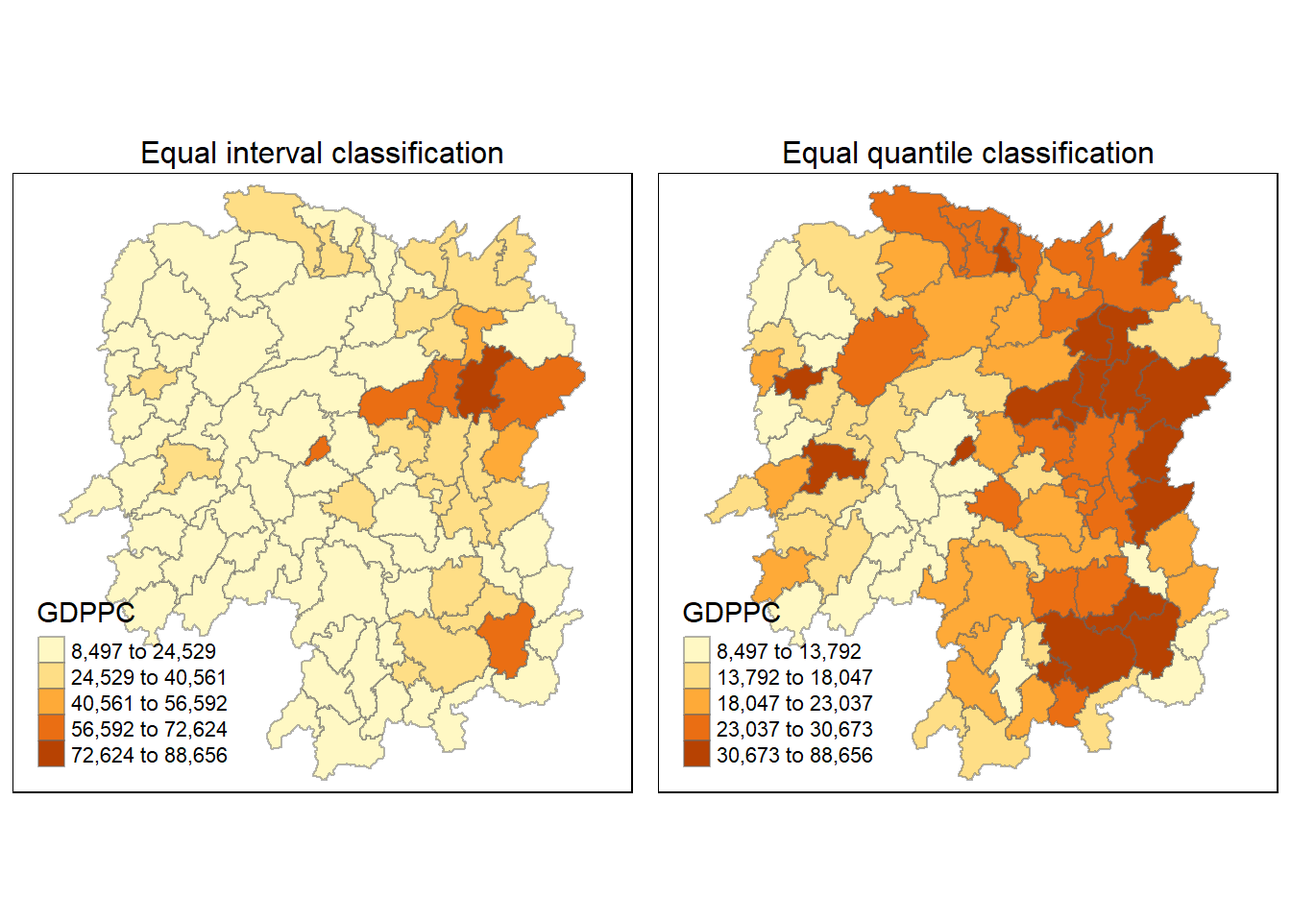
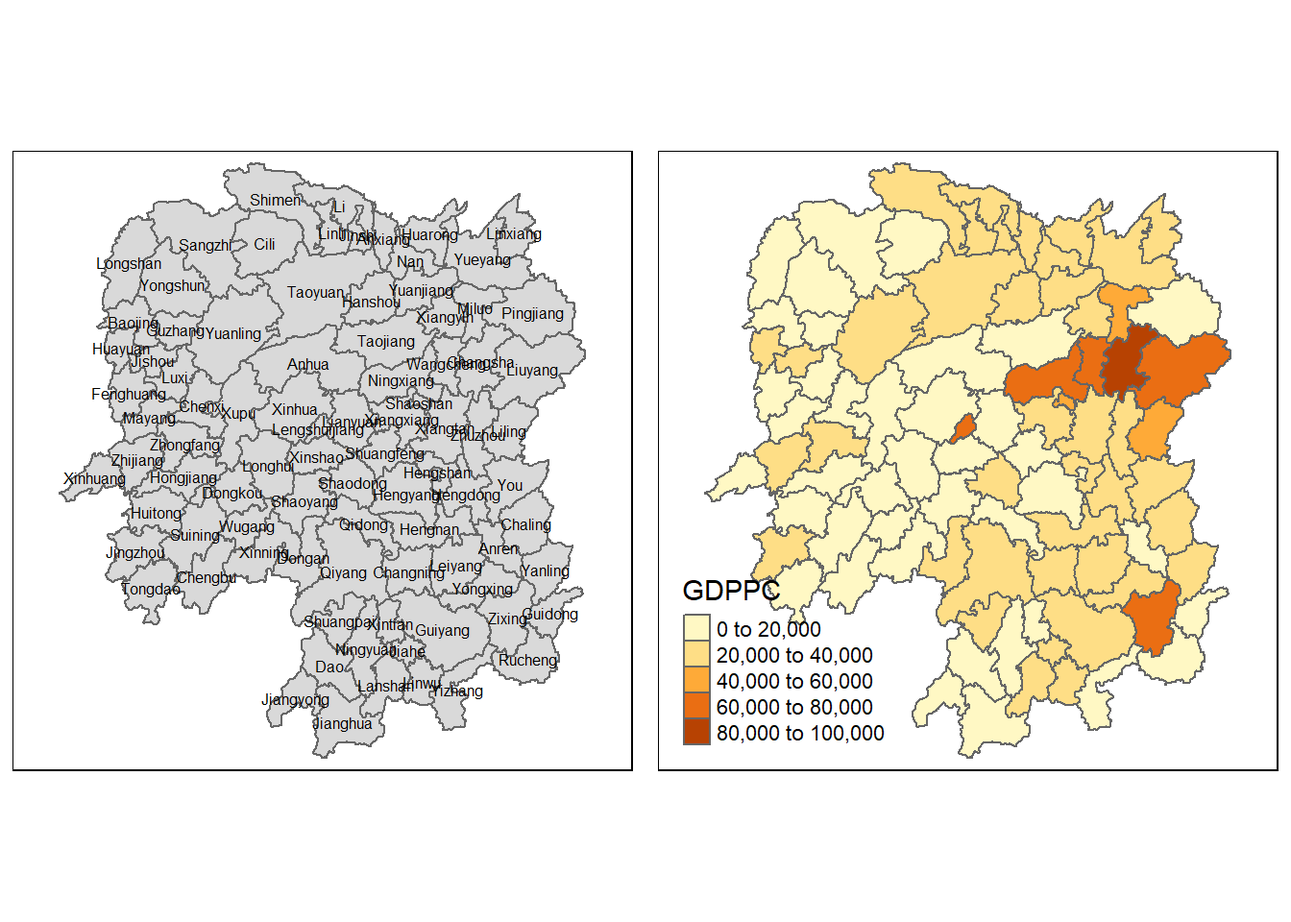
Commit 3rd edition of Hand-on Exercise 2 and 2nd edition of In-Class Exercise 1

diff --git a/_site/In-class_Ex/In-class_Ex1/In-class_Ex1.html b/_site/In-class_Ex/In-class_Ex1/In-class_Ex1.html
@@ -156,8 +156,8 @@ code span.wa { color: #60a0b0; font-weight: bold; font-style: italic; } /* Warni
     </ul>
   </li>
   <li class="nav-item dropdown ">
-    <a class="nav-link dropdown-toggle" href="#" id="nav-menu-in-class-exercise-1" role="button" data-bs-toggle="dropdown" aria-expanded="false">In-class Exercise 1</a>
-    <ul class="dropdown-menu" aria-labelledby="nav-menu-in-class-exercise-1">    
+    <a class="nav-link dropdown-toggle" href="#" id="nav-menu-in-class-exercises" role="button" data-bs-toggle="dropdown" aria-expanded="false">In-class Exercises</a>
+    <ul class="dropdown-menu" aria-labelledby="nav-menu-in-class-exercises">    
         <li>
     <a class="dropdown-item" href="../../In-class_Ex/In-class_Ex1/In-class_Ex1.html">
  <span class="dropdown-text">In-class Exercise 1</span></a>
@@ -206,9 +206,10 @@ code span.wa { color: #60a0b0; font-weight: bold; font-style: italic; } /* Warni
   </ul></li>
   <li><a href="#joining-hunan-data" id="toc-joining-hunan-data" class="nav-link" data-scroll-target="#joining-hunan-data">Joining Hunan Data</a></li>
   <li><a href="#visualising-regional-development-indicator" id="toc-visualising-regional-development-indicator" class="nav-link" data-scroll-target="#visualising-regional-development-indicator">Visualising Regional Development Indicator</a></li>
-  <li><a href="#global-spatial-autocorrelation" id="toc-global-spatial-autocorrelation" class="nav-link" data-scroll-target="#global-spatial-autocorrelation">Global Spatial Autocorrelation</a>
+  <li><a href="#computing-contiguity-spatial-weights" id="toc-computing-contiguity-spatial-weights" class="nav-link" data-scroll-target="#computing-contiguity-spatial-weights">Computing Contiguity Spatial Weights</a>
   <ul class="collapse">
-  <li><a href="#contiguity-spatial-weights" id="toc-contiguity-spatial-weights" class="nav-link" data-scroll-target="#contiguity-spatial-weights">Contiguity Spatial Weights</a></li>
+  <li><a href="#computing-queens-criteria-contiguity-based-neighbours" id="toc-computing-queens-criteria-contiguity-based-neighbours" class="nav-link" data-scroll-target="#computing-queens-criteria-contiguity-based-neighbours">Computing (Queen’s Criteria) Contiguity-based Neighbours</a></li>
+  <li><a href="#computing-rooks-criteria-contiguity-based-neighbours" id="toc-computing-rooks-criteria-contiguity-based-neighbours" class="nav-link" data-scroll-target="#computing-rooks-criteria-contiguity-based-neighbours">Computing (Rook’s Criteria) Contiguity-based Neighbours</a></li>
   </ul></li>
   </ul>
 </nav>
@@ -321,7 +322,7 @@ Geodetic CRS:  WGS 84</code></pre>
 </div>
 <p>We also want to do some housekeeping to keep our laptop memory freed up from unused datasets. In the Environment tab, click on the broom logo to remove unused datasets.</p>
 <p><img src="images/paste-58FFA92D.png" class="img-fluid" width="371"></p>
-<p>Now we want to import the Hunan shapefile into R.</p>
+<p>Now we want to import the Hunan ESRI shapefile into R. This is the Hunan county boundary layer.</p>
 <div class="cell">
 <div class="sourceCode cell-code" id="cb7"><pre class="sourceCode r code-with-copy"><code class="sourceCode r"><span id="cb7-1"><a href="#cb7-1" aria-hidden="true" tabindex="-1"></a>hunan <span class="ot">&lt;-</span> <span class="fu">st_read</span>(<span class="at">dsn =</span> <span class="st">"data/geospatial"</span>,</span>
 <span id="cb7-2"><a href="#cb7-2" aria-hidden="true" tabindex="-1"></a>                <span class="at">layer =</span> <span class="st">"Hunan"</span>)</span></code><button title="Copy to Clipboard" class="code-copy-button"><i class="bi"></i></button></pre></div>
@@ -342,7 +343,7 @@ Geodetic CRS:  WGS 84</code></pre>
 <h2 class="anchored" data-anchor-id="importing-attribute-data-in-csv">Importing Attribute Data in CSV</h2>
 <section id="aspatial-hunan-data" class="level3">
 <h3 class="anchored" data-anchor-id="aspatial-hunan-data">Aspatial Hunan Data</h3>
-<p>The code chunk below imports the aspatial Hunan 2012 data.</p>
+<p>The code chunk below imports the aspatial Hunan 2012 data. This dataset contains selected local development indicators such as Gross Domestic Product per capita (<code>GDPPC</code>) for each county in 2012.</p>
 <div class="cell">
 <div class="sourceCode cell-code" id="cb9"><pre class="sourceCode r code-with-copy"><code class="sourceCode r"><span id="cb9-1"><a href="#cb9-1" aria-hidden="true" tabindex="-1"></a>hunan2012 <span class="ot">&lt;-</span> <span class="fu">read_csv</span>(<span class="st">"data/aspatial/Hunan_2012.csv"</span>)</span></code><button title="Copy to Clipboard" class="code-copy-button"><i class="bi"></i></button></pre></div>
 <div class="cell-output cell-output-stderr">
@@ -371,42 +372,176 @@ dbl (27): avg_wage, deposite, FAI, Gov_Rev, Gov_Exp, GDP, GDPPC, GIO, Loan, ...
 </section>
 <section id="visualising-regional-development-indicator" class="level2">
 <h2 class="anchored" data-anchor-id="visualising-regional-development-indicator">Visualising Regional Development Indicator</h2>
-<p>With some data about the Hunan province, we want to create a quick thematic map to visualise the distribution of Gross Domestic Product Per Capita (GDPPC) in 2012, using the <a href="https://www.rdocumentation.org/packages/tmap/versions/3.3-3/topics/qtm"><em>qtm()</em></a> function from the <strong>tmap</strong> package.</p>
+<p>With some data about the Hunan province, we want to create a quick thematic map to visualise the distribution of GDPPC in 2012, using the <a href="https://www.rdocumentation.org/packages/tmap/versions/3.3-3/topics/qtm"><em>qtm()</em></a> function from the <strong>tmap</strong> package.</p>
 <div class="cell">
-<div class="sourceCode cell-code" id="cb13"><pre class="sourceCode r code-with-copy"><code class="sourceCode r"><span id="cb13-1"><a href="#cb13-1" aria-hidden="true" tabindex="-1"></a>equal <span class="ot">&lt;-</span> <span class="fu">tm_shape</span>(hunan) <span class="sc">+</span></span>
-<span id="cb13-2"><a href="#cb13-2" aria-hidden="true" tabindex="-1"></a>  <span class="fu">tm_fill</span>(<span class="st">"GDPPC"</span>,</span>
-<span id="cb13-3"><a href="#cb13-3" aria-hidden="true" tabindex="-1"></a>          <span class="at">n =</span> <span class="dv">5</span>,</span>
-<span id="cb13-4"><a href="#cb13-4" aria-hidden="true" tabindex="-1"></a>          <span class="at">style =</span> <span class="st">"equal"</span>) <span class="sc">+</span></span>
-<span id="cb13-5"><a href="#cb13-5" aria-hidden="true" tabindex="-1"></a>  <span class="fu">tm_borders</span>(<span class="at">alpha =</span> <span class="fl">0.5</span>) <span class="sc">+</span></span>
-<span id="cb13-6"><a href="#cb13-6" aria-hidden="true" tabindex="-1"></a>  <span class="fu">tm_layout</span>(<span class="at">main.title =</span> <span class="st">"Equal interval classification"</span>,</span>
-<span id="cb13-7"><a href="#cb13-7" aria-hidden="true" tabindex="-1"></a>            <span class="at">main.title.size =</span> <span class="dv">1</span>,</span>
-<span id="cb13-8"><a href="#cb13-8" aria-hidden="true" tabindex="-1"></a>            <span class="at">main.title.position =</span> <span class="st">"center"</span>,</span>
-<span id="cb13-9"><a href="#cb13-9" aria-hidden="true" tabindex="-1"></a>            <span class="at">legend.height =</span> <span class="fl">0.3</span>, </span>
-<span id="cb13-10"><a href="#cb13-10" aria-hidden="true" tabindex="-1"></a>            <span class="at">legend.width =</span> <span class="fl">0.7</span>)</span>
-<span id="cb13-11"><a href="#cb13-11" aria-hidden="true" tabindex="-1"></a>  </span>
-<span id="cb13-12"><a href="#cb13-12" aria-hidden="true" tabindex="-1"></a>quantile <span class="ot">&lt;-</span> tmap<span class="sc">::</span><span class="fu">tm_shape</span>(hunan) <span class="sc">+</span></span>
-<span id="cb13-13"><a href="#cb13-13" aria-hidden="true" tabindex="-1"></a>  <span class="fu">tm_fill</span>(<span class="st">"GDPPC"</span>,</span>
-<span id="cb13-14"><a href="#cb13-14" aria-hidden="true" tabindex="-1"></a>          <span class="at">n =</span> <span class="dv">5</span>,</span>
-<span id="cb13-15"><a href="#cb13-15" aria-hidden="true" tabindex="-1"></a>          <span class="at">style =</span> <span class="st">"quantile"</span>) <span class="sc">+</span></span>
-<span id="cb13-16"><a href="#cb13-16" aria-hidden="true" tabindex="-1"></a>  <span class="fu">tm_borders</span>(<span class="at">alpha =</span> <span class="fl">0.5</span>) <span class="sc">+</span></span>
-<span id="cb13-17"><a href="#cb13-17" aria-hidden="true" tabindex="-1"></a>  <span class="fu">tm_layout</span>(<span class="at">main.title =</span> <span class="st">"Equal quantile classification"</span>,</span>
-<span id="cb13-18"><a href="#cb13-18" aria-hidden="true" tabindex="-1"></a>            <span class="at">main.title.size =</span> <span class="dv">1</span>,</span>
-<span id="cb13-19"><a href="#cb13-19" aria-hidden="true" tabindex="-1"></a>            <span class="at">main.title.position =</span> <span class="st">"center"</span>,</span>
-<span id="cb13-20"><a href="#cb13-20" aria-hidden="true" tabindex="-1"></a>            <span class="at">legend.height =</span> <span class="fl">0.3</span>, </span>
-<span id="cb13-21"><a href="#cb13-21" aria-hidden="true" tabindex="-1"></a>            <span class="at">legend.width =</span> <span class="fl">0.7</span>)</span>
-<span id="cb13-22"><a href="#cb13-22" aria-hidden="true" tabindex="-1"></a></span>
-<span id="cb13-23"><a href="#cb13-23" aria-hidden="true" tabindex="-1"></a><span class="fu">tmap_arrange</span>(equal, quantile, <span class="at">asp =</span> <span class="dv">1</span>, <span class="at">ncol =</span> <span class="dv">2</span>)</span></code><button title="Copy to Clipboard" class="code-copy-button"><i class="bi"></i></button></pre></div>
+<div class="sourceCode cell-code" id="cb13"><pre class="sourceCode r code-with-copy"><code class="sourceCode r"><span id="cb13-1"><a href="#cb13-1" aria-hidden="true" tabindex="-1"></a>basemap <span class="ot">&lt;-</span> <span class="fu">tm_shape</span>(hunan) <span class="sc">+</span></span>
+<span id="cb13-2"><a href="#cb13-2" aria-hidden="true" tabindex="-1"></a>  <span class="fu">tm_polygons</span>() <span class="sc">+</span></span>
+<span id="cb13-3"><a href="#cb13-3" aria-hidden="true" tabindex="-1"></a>  <span class="fu">tm_text</span>(<span class="st">"County"</span>, <span class="at">size=</span><span class="fl">0.5</span>)</span>
+<span id="cb13-4"><a href="#cb13-4" aria-hidden="true" tabindex="-1"></a></span>
+<span id="cb13-5"><a href="#cb13-5" aria-hidden="true" tabindex="-1"></a>gdppc <span class="ot">&lt;-</span> <span class="fu">qtm</span>(hunan, <span class="at">fill =</span> <span class="st">"GDPPC"</span>)</span>
+<span id="cb13-6"><a href="#cb13-6" aria-hidden="true" tabindex="-1"></a></span>
+<span id="cb13-7"><a href="#cb13-7" aria-hidden="true" tabindex="-1"></a><span class="fu">tmap_arrange</span>(basemap, gdppc, <span class="at">asp =</span> <span class="dv">1</span>, <span class="at">ncol =</span> <span class="dv">2</span>)</span></code><button title="Copy to Clipboard" class="code-copy-button"><i class="bi"></i></button></pre></div>
 <div class="cell-output-display">
 <p><img src="In-class_Ex1_files/figure-html/unnamed-chunk-8-1.png" class="img-fluid" width="672"></p>
 </div>
 </div>
-<p>We see that the equal interval classification map shows that most regions (~60%) have GDPPC of only 1/5 of the wealthiest region. In addition, we observe that the wealth is mostly concentrated in the Northeast region of the Hunan province.</p>
+<p>We see that <em>qtm()</em> does a quick plot using equal interval classification. From the map, most regions (~60%) have GDPPC of only 1/5 of the wealthiest region. In addition, we observe that the wealth is mostly concentrated in the Northeast region of the Hunan province, and the top tier GDPPC in 2012 was held by only 1 county - Changsha.</p>
 </section>
-<section id="global-spatial-autocorrelation" class="level2">
-<h2 class="anchored" data-anchor-id="global-spatial-autocorrelation">Global Spatial Autocorrelation</h2>
-<p>We want to know whether such a distribution of GDPPC is by pure chance (randomness), and if not, whether there is a positive/negative correlation between neighbouring regions or outliers. To do this, we will compute the global spatial autocorrelation statistics and perform spatial complete randomness test for global spatial autocorrelation.</p>
-<section id="contiguity-spatial-weights" class="level3">
-<h3 class="anchored" data-anchor-id="contiguity-spatial-weights">Contiguity Spatial Weights</h3>
+<section id="computing-contiguity-spatial-weights" class="level2">
+<h2 class="anchored" data-anchor-id="computing-contiguity-spatial-weights">Computing Contiguity Spatial Weights</h2>
+<p>In this section, we will use <em>poly2nb()</em> of <strong>spdep</strong> to compute contiguity weights matrices for the study area, Hunan. This function builds a neighbours list based on regions with contiguous (shared) boundaries. The default criteria used in this function is Queen’s criteria, which considers any boundary that is touching by at least 1 point to be a neighbour.</p>
+<p><img src="images/paste-DB966401.png" class="img-fluid" width="603"></p>
+<section id="computing-queens-criteria-contiguity-based-neighbours" class="level3">
+<h3 class="anchored" data-anchor-id="computing-queens-criteria-contiguity-based-neighbours">Computing (Queen’s Criteria) Contiguity-based Neighbours</h3>
+<p>The code chunk below computes Queen’s contiguity weights matrix.</p>
+<div class="cell">
+<div class="sourceCode cell-code" id="cb14"><pre class="sourceCode r code-with-copy"><code class="sourceCode r"><span id="cb14-1"><a href="#cb14-1" aria-hidden="true" tabindex="-1"></a>wm_q <span class="ot">&lt;-</span> <span class="fu">poly2nb</span>(hunan, <span class="at">queen =</span> <span class="cn">TRUE</span>)</span>
+<span id="cb14-2"><a href="#cb14-2" aria-hidden="true" tabindex="-1"></a><span class="fu">summary</span>(wm_q)</span></code><button title="Copy to Clipboard" class="code-copy-button"><i class="bi"></i></button></pre></div>
+<div class="cell-output cell-output-stdout">
+<pre><code>Neighbour list object:
+Number of regions: 88 
+Number of nonzero links: 448 
+Percentage nonzero weights: 5.785124 
+Average number of links: 5.090909 
+Link number distribution:
+
+ 1  2  3  4  5  6  7  8  9 11 
+ 2  2 12 16 24 14 11  4  2  1 
+2 least connected regions:
+30 65 with 1 link
+1 most connected region:
+85 with 11 links</code></pre>
+</div>
+</div>
+<p>There are 448 pairs of neighbours found by the Queen's case, from the 88 counties in Hunan. From the summary report, the link number distributions shows the frequency of the number of links or neighbours that each county has, the most being 11 neighbours for 1 county (region 85). On the other extreme, the 2 least connected regions (30 and 65) only have 1 neighbour each.</p>
+<p>By calling the <code>County</code> column of the <code>hunan</code> dataframe, we can see that the county with the most neighbours is <code>Taoyuan</code> and that with the least neighbours are <code>Xinhuang</code> and <code>Linxiang</code>. This is consistent with the basemap that we plotted previously, where <code>Taoyuan</code> is a large county in the North surrounded by multiple smaller counties, and <code>Xinhuang</code> and <code>Linxiang</code> being counties along the West and Northeast borders of Hunan respectively.</p>
+<div class="cell">
+<div class="sourceCode cell-code" id="cb16"><pre class="sourceCode r code-with-copy"><code class="sourceCode r"><span id="cb16-1"><a href="#cb16-1" aria-hidden="true" tabindex="-1"></a>hunan<span class="sc">$</span>County[<span class="fu">c</span>(<span class="dv">85</span>, <span class="dv">30</span>, <span class="dv">65</span>)]</span></code><button title="Copy to Clipboard" class="code-copy-button"><i class="bi"></i></button></pre></div>
+<div class="cell-output cell-output-stdout">
+<pre><code>[1] "Taoyuan"  "Xinhuang" "Linxiang"</code></pre>
+</div>
+</div>
+<p>For each polygon in our polygon object, <em>wm_q()</em> lists all neighboring polygons. For example, to see the neighbours for the region with the most number of neighbours (polygon number 85), we can use the following code chunk.</p>
+<div class="cell">
+<div class="sourceCode cell-code" id="cb18"><pre class="sourceCode r code-with-copy"><code class="sourceCode r"><span id="cb18-1"><a href="#cb18-1" aria-hidden="true" tabindex="-1"></a>wm_q[[<span class="dv">85</span>]]</span></code><button title="Copy to Clipboard" class="code-copy-button"><i class="bi"></i></button></pre></div>
+<div class="cell-output cell-output-stdout">
+<pre><code> [1]  1  2  3  5  6 32 56 57 69 75 78</code></pre>
+</div>
+</div>
+<p>The 11 neighbours of Polygon 85, which is Taoyuan, are listed above. The numbers represent the polygon IDs as stored in the <code>hunan</code> SpatialPolygonsDataFrame class.</p>
+<p>To retrieve the GDPPC of Taoyuan and all its 11 neighbours, the following code chunk can be used.</p>
+<div class="cell">
+<div class="sourceCode cell-code" id="cb20"><pre class="sourceCode r code-with-copy"><code class="sourceCode r"><span id="cb20-1"><a href="#cb20-1" aria-hidden="true" tabindex="-1"></a>nb85 <span class="ot">&lt;-</span> wm_q[[<span class="dv">85</span>]]</span>
+<span id="cb20-2"><a href="#cb20-2" aria-hidden="true" tabindex="-1"></a>nb85 <span class="ot">&lt;-</span> hunan<span class="sc">$</span>GDPPC[<span class="fu">c</span>(<span class="dv">85</span>, nb85)]</span>
+<span id="cb20-3"><a href="#cb20-3" aria-hidden="true" tabindex="-1"></a>nb85</span></code><button title="Copy to Clipboard" class="code-copy-button"><i class="bi"></i></button></pre></div>
+<div class="cell-output cell-output-stdout">
+<pre><code> [1] 22879 23667 20981 34592 25554 27137 24194 14567 21311 18714 14624 19509</code></pre>
+</div>
+</div>
+<p>We can see that the GDPPC of Taoyuan and its 11 neighbours (based on Queen’s criteria) are 22879, 23667, 20981, 34592, 25554, 27137, 24194, 14567, 21311, 18714, 14624 and 19509 respectively.</p>
+<p>The complete weights matrix can be listed using <a href="https://www.rdocumentation.org/packages/utils/versions/3.6.2/topics/str"><em>str()</em></a> (display internal structure) from R’s <strong>utils</strong> package.</p>
+<div class="cell">
+<div class="sourceCode cell-code" id="cb22"><pre class="sourceCode r code-with-copy"><code class="sourceCode r"><span id="cb22-1"><a href="#cb22-1" aria-hidden="true" tabindex="-1"></a><span class="fu">str</span>(wm_q)</span></code><button title="Copy to Clipboard" class="code-copy-button"><i class="bi"></i></button></pre></div>
+<div class="cell-output cell-output-stdout">
+<pre><code>List of 88
+ $ : int [1:5] 2 3 4 57 85
+ $ : int [1:5] 1 57 58 78 85
+ $ : int [1:4] 1 4 5 85
+ $ : int [1:4] 1 3 5 6
+ $ : int [1:4] 3 4 6 85
+ $ : int [1:5] 4 5 69 75 85
+ $ : int [1:4] 67 71 74 84
+ $ : int [1:7] 9 46 47 56 78 80 86
+ $ : int [1:6] 8 66 68 78 84 86
+ $ : int [1:8] 16 17 19 20 22 70 72 73
+ $ : int [1:3] 14 17 72
+ $ : int [1:5] 13 60 61 63 83
+ $ : int [1:4] 12 15 60 83
+ $ : int [1:3] 11 15 17
+ $ : int [1:4] 13 14 17 83
+ $ : int [1:5] 10 17 22 72 83
+ $ : int [1:7] 10 11 14 15 16 72 83
+ $ : int [1:5] 20 22 23 77 83
+ $ : int [1:6] 10 20 21 73 74 86
+ $ : int [1:7] 10 18 19 21 22 23 82
+ $ : int [1:5] 19 20 35 82 86
+ $ : int [1:5] 10 16 18 20 83
+ $ : int [1:7] 18 20 38 41 77 79 82
+ $ : int [1:5] 25 28 31 32 54
+ $ : int [1:5] 24 28 31 33 81
+ $ : int [1:4] 27 33 42 81
+ $ : int [1:3] 26 29 42
+ $ : int [1:5] 24 25 33 49 54
+ $ : int [1:3] 27 37 42
+ $ : int 33
+ $ : int [1:8] 24 25 32 36 39 40 56 81
+ $ : int [1:8] 24 31 50 54 55 56 75 85
+ $ : int [1:5] 25 26 28 30 81
+ $ : int [1:3] 36 45 80
+ $ : int [1:6] 21 41 47 80 82 86
+ $ : int [1:6] 31 34 40 45 56 80
+ $ : int [1:4] 29 42 43 44
+ $ : int [1:4] 23 44 77 79
+ $ : int [1:5] 31 40 42 43 81
+ $ : int [1:6] 31 36 39 43 45 79
+ $ : int [1:6] 23 35 45 79 80 82
+ $ : int [1:7] 26 27 29 37 39 43 81
+ $ : int [1:6] 37 39 40 42 44 79
+ $ : int [1:4] 37 38 43 79
+ $ : int [1:6] 34 36 40 41 79 80
+ $ : int [1:3] 8 47 86
+ $ : int [1:5] 8 35 46 80 86
+ $ : int [1:5] 50 51 52 53 55
+ $ : int [1:4] 28 51 52 54
+ $ : int [1:5] 32 48 52 54 55
+ $ : int [1:3] 48 49 52
+ $ : int [1:5] 48 49 50 51 54
+ $ : int [1:3] 48 55 75
+ $ : int [1:6] 24 28 32 49 50 52
+ $ : int [1:5] 32 48 50 53 75
+ $ : int [1:7] 8 31 32 36 78 80 85
+ $ : int [1:6] 1 2 58 64 76 85
+ $ : int [1:5] 2 57 68 76 78
+ $ : int [1:4] 60 61 87 88
+ $ : int [1:4] 12 13 59 61
+ $ : int [1:7] 12 59 60 62 63 77 87
+ $ : int [1:3] 61 77 87
+ $ : int [1:4] 12 61 77 83
+ $ : int [1:2] 57 76
+ $ : int 76
+ $ : int [1:5] 9 67 68 76 84
+ $ : int [1:4] 7 66 76 84
+ $ : int [1:5] 9 58 66 76 78
+ $ : int [1:3] 6 75 85
+ $ : int [1:3] 10 72 73
+ $ : int [1:3] 7 73 74
+ $ : int [1:5] 10 11 16 17 70
+ $ : int [1:5] 10 19 70 71 74
+ $ : int [1:6] 7 19 71 73 84 86
+ $ : int [1:6] 6 32 53 55 69 85
+ $ : int [1:7] 57 58 64 65 66 67 68
+ $ : int [1:7] 18 23 38 61 62 63 83
+ $ : int [1:7] 2 8 9 56 58 68 85
+ $ : int [1:7] 23 38 40 41 43 44 45
+ $ : int [1:8] 8 34 35 36 41 45 47 56
+ $ : int [1:6] 25 26 31 33 39 42
+ $ : int [1:5] 20 21 23 35 41
+ $ : int [1:9] 12 13 15 16 17 18 22 63 77
+ $ : int [1:6] 7 9 66 67 74 86
+ $ : int [1:11] 1 2 3 5 6 32 56 57 69 75 ...
+ $ : int [1:9] 8 9 19 21 35 46 47 74 84
+ $ : int [1:4] 59 61 62 88
+ $ : int [1:2] 59 87
+ - attr(*, "class")= chr "nb"
+ - attr(*, "region.id")= chr [1:88] "1" "2" "3" "4" ...
+ - attr(*, "call")= language poly2nb(pl = hunan, queen = TRUE)
+ - attr(*, "type")= chr "queen"
+ - attr(*, "sym")= logi TRUE</code></pre>
+</div>
+</div>
+</section>
+<section id="computing-rooks-criteria-contiguity-based-neighbours" class="level3">
+<h3 class="anchored" data-anchor-id="computing-rooks-criteria-contiguity-based-neighbours">Computing (Rook’s Criteria) Contiguity-based Neighbours</h3>
 
 
 </section>

diff --git a/_site/Hands-on_Ex2/Hands-on_Ex2.html b/_site/Hands-on_Ex2/Hands-on_Ex2.html
@@ -7,7 +7,7 @@
 <meta name="viewport" content="width=device-width, initial-scale=1.0, user-scalable=yes">
 
 
-<title>ISSS624 - Hands-on_Ex2</title>
+<title>ISSS624 - Hands-on Exercise 2</title>
 <style>
 code{white-space: pre-wrap;}
 span.smallcaps{font-variant: small-caps;}
@@ -156,8 +156,8 @@ code span.wa { color: #60a0b0; font-weight: bold; font-style: italic; } /* Warni
     </ul>
   </li>
   <li class="nav-item dropdown ">
-    <a class="nav-link dropdown-toggle" href="#" id="nav-menu-in-class-exercise-1" role="button" data-bs-toggle="dropdown" aria-expanded="false">In-class Exercise 1</a>
-    <ul class="dropdown-menu" aria-labelledby="nav-menu-in-class-exercise-1">    
+    <a class="nav-link dropdown-toggle" href="#" id="nav-menu-in-class-exercises" role="button" data-bs-toggle="dropdown" aria-expanded="false">In-class Exercises</a>
+    <ul class="dropdown-menu" aria-labelledby="nav-menu-in-class-exercises">    
         <li>
     <a class="dropdown-item" href="../In-class_Ex/In-class_Ex1/In-class_Ex1.html">
  <span class="dropdown-text">In-class Exercise 1</span></a>
@@ -250,7 +250,7 @@ code span.wa { color: #60a0b0; font-weight: bold; font-style: italic; } /* Warni
 
 <header id="title-block-header" class="quarto-title-block default">
 <div class="quarto-title">
-<h1 class="title">Hands-on_Ex2</h1>
+<h1 class="title">Hands-on Exercise 2</h1>
 </div>
 
 
@@ -616,7 +616,7 @@ alternative hypothesis: greater</code></pre>
 </section>
 <section id="spatial-correlogram" class="level2">
 <h2 class="anchored" data-anchor-id="spatial-correlogram">Spatial Correlogram</h2>
-<p>Spatial correlograms are used to examine patterns of spatial autocorrelation. They show how correlated are pairs of spatial observations when you increase the distance (lag) between them - they are plots of some index of autocorrelation (Moran's I or Geary's c) against distance. Row standardisation is not needed.</p>
+<p>Spatial correlograms are used to examine patterns of spatial autocorrelation. They show how correlated are pairs of spatial observations when you increase the distance (lag) between them - they are plots of some index of autocorrelation (Moran’s I or Geary’s c) against distance. Row standardisation is not needed.</p>
 <section id="morans-i-correlogram" class="level3">
 <h3 class="anchored" data-anchor-id="morans-i-correlogram">Moran’s I Correlogram</h3>
 <p>In the code chunk below, <a href="https://r-spatial.github.io/spdep/reference/sp.correlogram.html"><em>sp.correlogram()</em></a> of <strong>spdep</strong> is used to compute a 1- to 6-lag spatial correlogram of GDPPC. The global spatial autocorrelation used is Moran’s I. The <em>plot()</em> of R’s base Graph is used to plot the output.</p>
@@ -1084,7 +1084,7 @@ First 10 features:
 <p>The term ‘hot spot’ has been used generically across disciplines to describe a region or value that is higher relative to its surroundings.</p>
 <section id="getis-and-ords-g-statistics" class="level3">
 <h3 class="anchored" data-anchor-id="getis-and-ords-g-statistics">Getis and Ord’s G-Statistics</h3>
-<p>An alternative spatial statistics to detect spatial anomalies is the Getis and Ord's G-statistics. It looks at neighbours within a defined proximity to identify where either high or low values clutser spatially. Here, statistically significant hot-spots are recognised as areas of high values where other areas within a neighbourhood range also share high values too.</p>
+<p>An alternative spatial statistics to detect spatial anomalies is the Getis and Ord’s G-statistics. It looks at neighbours within a defined proximity to identify where either high or low values clutser spatially. Here, statistically significant hot-spots are recognised as areas of high values where other areas within a neighbourhood range also share high values too.</p>
 <p>The analysis consists of three steps:</p>
 <ol type="1">
 <li><p>Deriving spatial weight matrix</p></li>
@@ -1363,7 +1363,7 @@ attr(,"class")
 [1] "localG"</code></pre>
 </div>
 </div>
-<p>The output of localG() is a vector of G or Gstar values, with attributes "gstari" set to TRUE or FALSE, "call" set to the function call, and class "localG".</p>
+<p>The output of localG() is a vector of G or Gstar values, with attributes “gstari” set to TRUE or FALSE, “call” set to the function call, and class “localG”.</p>
 <p>The Gi statistics is represented as a Z-score. Greater values represent a greater intensity of clustering and the direction (positive or negative) indicates high or low clusters.</p>
 <p>Next, we will join the Gi values to their corresponding <code>hunan</code> sf dataframe by using the code chunk below.</p>
 <div class="cell">

diff --git a/_site/Hands-on_Ex1/Hands-on_Ex01.html b/_site/Hands-on_Ex1/Hands-on_Ex01.html
@@ -157,8 +157,8 @@ code span.wa { color: #60a0b0; font-weight: bold; font-style: italic; } /* Warni
     </ul>
   </li>
   <li class="nav-item dropdown ">
-    <a class="nav-link dropdown-toggle" href="#" id="nav-menu-in-class-exercise-1" role="button" data-bs-toggle="dropdown" aria-expanded="false">In-class Exercise 1</a>
-    <ul class="dropdown-menu" aria-labelledby="nav-menu-in-class-exercise-1">    
+    <a class="nav-link dropdown-toggle" href="#" id="nav-menu-in-class-exercises" role="button" data-bs-toggle="dropdown" aria-expanded="false">In-class Exercises</a>
+    <ul class="dropdown-menu" aria-labelledby="nav-menu-in-class-exercises">    
         <li>
     <a class="dropdown-item" href="../In-class_Ex/In-class_Ex1/In-class_Ex1.html">
  <span class="dropdown-text">In-class Exercise 1</span></a>

diff --git a/_site/about.html b/_site/about.html
@@ -156,8 +156,8 @@ code span.wa { color: #60a0b0; font-weight: bold; font-style: italic; } /* Warni
     </ul>
   </li>
   <li class="nav-item dropdown ">
-    <a class="nav-link dropdown-toggle" href="#" id="nav-menu-in-class-exercise-1" role="button" data-bs-toggle="dropdown" aria-expanded="false">In-class Exercise 1</a>
-    <ul class="dropdown-menu" aria-labelledby="nav-menu-in-class-exercise-1">    
+    <a class="nav-link dropdown-toggle" href="#" id="nav-menu-in-class-exercises" role="button" data-bs-toggle="dropdown" aria-expanded="false">In-class Exercises</a>
+    <ul class="dropdown-menu" aria-labelledby="nav-menu-in-class-exercises">    
         <li>
     <a class="dropdown-item" href="./In-class_Ex/In-class_Ex1/In-class_Ex1.html">
  <span class="dropdown-text">In-class Exercise 1</span></a>

diff --git a/_site/Hands-on_Ex1.html b/_site/Hands-on_Ex1.html
@@ -93,8 +93,8 @@ ul.task-list li input[type="checkbox"] {
     </ul>
   </li>
   <li class="nav-item dropdown ">
-    <a class="nav-link dropdown-toggle" href="#" id="nav-menu-in-class-exercise-1" role="button" data-bs-toggle="dropdown" aria-expanded="false">In-class Exercise 1</a>
-    <ul class="dropdown-menu" aria-labelledby="nav-menu-in-class-exercise-1">    
+    <a class="nav-link dropdown-toggle" href="#" id="nav-menu-in-class-exercises" role="button" data-bs-toggle="dropdown" aria-expanded="false">In-class Exercises</a>
+    <ul class="dropdown-menu" aria-labelledby="nav-menu-in-class-exercises">    
         <li>
     <a class="dropdown-item" href="./In-class_Ex/In-class_Ex1/In-class_Ex1.html">
  <span class="dropdown-text">In-class Exercise 1</span></a>

diff --git a/_site/index.html b/_site/index.html
@@ -93,8 +93,8 @@ ul.task-list li input[type="checkbox"] {
     </ul>
   </li>
   <li class="nav-item dropdown ">
-    <a class="nav-link dropdown-toggle" href="#" id="nav-menu-in-class-exercise-1" role="button" data-bs-toggle="dropdown" aria-expanded="false">In-class Exercise 1</a>
-    <ul class="dropdown-menu" aria-labelledby="nav-menu-in-class-exercise-1">    
+    <a class="nav-link dropdown-toggle" href="#" id="nav-menu-in-class-exercises" role="button" data-bs-toggle="dropdown" aria-expanded="false">In-class Exercises</a>
+    <ul class="dropdown-menu" aria-labelledby="nav-menu-in-class-exercises">    
         <li>
     <a class="dropdown-item" href="./In-class_Ex/In-class_Ex1/In-class_Ex1.html">
  <span class="dropdown-text">In-class Exercise 1</span></a>
